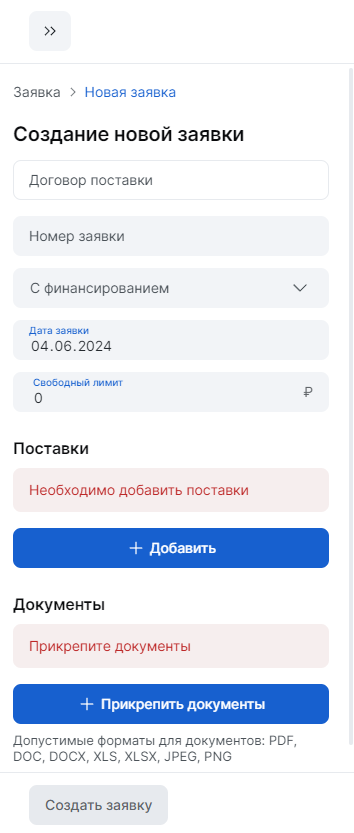
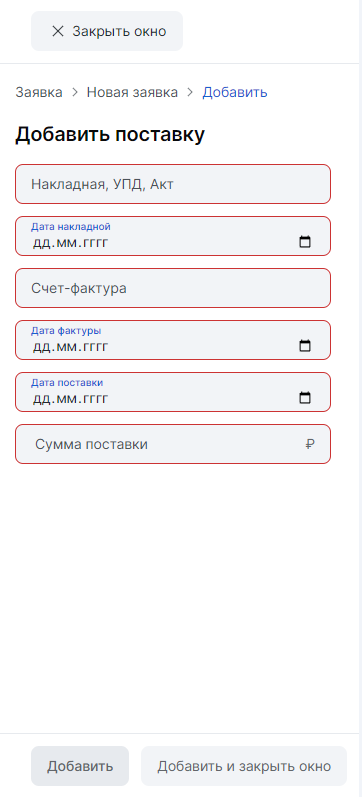
feat: shipment.mobile

diff --git a/src/app/client/modules/requests/modules/shipment-drawer/shipment-drawer.component.html b/src/app/client/modules/requests/modules/shipment-drawer/shipment-drawer.component.html
@@ -1,6 +1,20 @@
 <mib-drawer [formGroup]="form">
+	<div class="breadcrumb flex flex_column">
+		<mib-spacing type="xs"></mib-spacing>
+		<div class="flex">
+			<mib-breadcrumb
+				(click)="dialogRef.close()"
+				text="Заявка"
+			></mib-breadcrumb>
+			<mib-breadcrumb
+				(click)="dialogRef.close()"
+				text="Новая заявка"
+			></mib-breadcrumb>
+			<mib-breadcrumb text="Добавить" selected="true"></mib-breadcrumb>
+		</div>
+		<mib-spacing type="xs"></mib-spacing>
+	</div>
 	<mib-drawer-header
-		[showShared]="true"
 		[showClose]="true"
 		(onClose)="dialogRef.close()"
 		drawer-header
@@ -10,7 +24,7 @@
 		<h4>Добавить поставку</h4>
 		<mib-spacing type="xs"></mib-spacing>
 		<div class="flex flex_column gap-12">
-			<div class="flex gap-12">
+			<div class="mobile-col flex gap-12">
 				<mib-input class="flex_grow">
 					<ng-container mibLabel>Накладная, УПД, Акт</ng-container>
 					<input formControlName="WaybillNumber" mibInput />
@@ -20,7 +34,7 @@
 					<input type="date" formControlName="WaybillDate" mibInput />
 				</mib-input>
 			</div>
-			<div class="flex gap-12">
+			<div class="mobile-col flex gap-12">
 				<mib-input class="flex_grow">
 					<ng-container mibLabel>Счет-фактура</ng-container>
 					<input formControlName="InvoiceNumber" mibInput />

diff --git a/src/app/client/modules/requests/modules/shipment-drawer/shipment-drawer.module.ts b/src/app/client/modules/requests/modules/shipment-drawer/shipment-drawer.module.ts
@@ -12,6 +12,7 @@ import {NgxMaskModule} from 'ngx-mask'
 import {RightIconModule} from '../../../../../shared/directives/right-icon/right-icon.module'
 import {LabelModule} from '../../../../../shared/directives/label/label.module'
 import {IconModule} from 'src/app/shared/ui-kit/ref-icon/icon.module'
+import {BreadcrumbModule} from 'src/app/shared/ui-kit/breadcrumb/breadcrumb.module'
 
 @NgModule({
 	declarations: [ShipmentDrawerComponent],
@@ -25,7 +26,8 @@ import {IconModule} from 'src/app/shared/ui-kit/ref-icon/icon.module'
 		ReactiveFormsModule,
 		NgxMaskModule,
 		RightIconModule,
-		LabelModule
+		LabelModule,
+		BreadcrumbModule
 	],
 	providers: [ShipmentDrawerService]
 })

diff --git a/src/app/client/modules/requests/modules/shipment-drawer/shipment-drawer.component.scss b/src/app/client/modules/requests/modules/shipment-drawer/shipment-drawer.component.scss
@@ -1,0 +1,14 @@
+.breadcrumb {
+	display: none;
+}
+
+@media (max-width: 576px) {
+	.breadcrumb {
+		display: flex;
+		padding: 0 16px;
+	}
+
+	.mobile-col {
+		flex-direction: column;
+	}
+}
